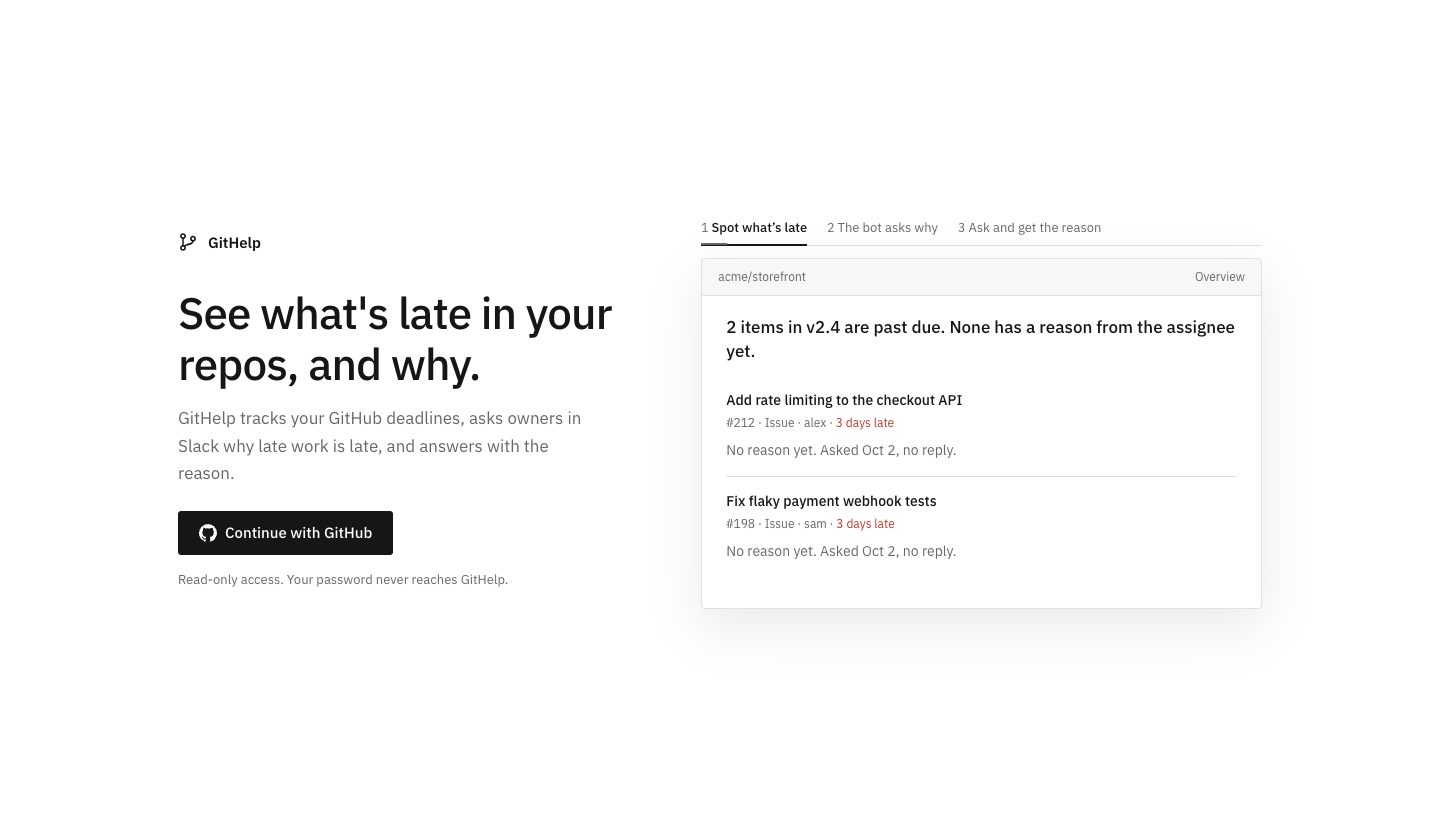
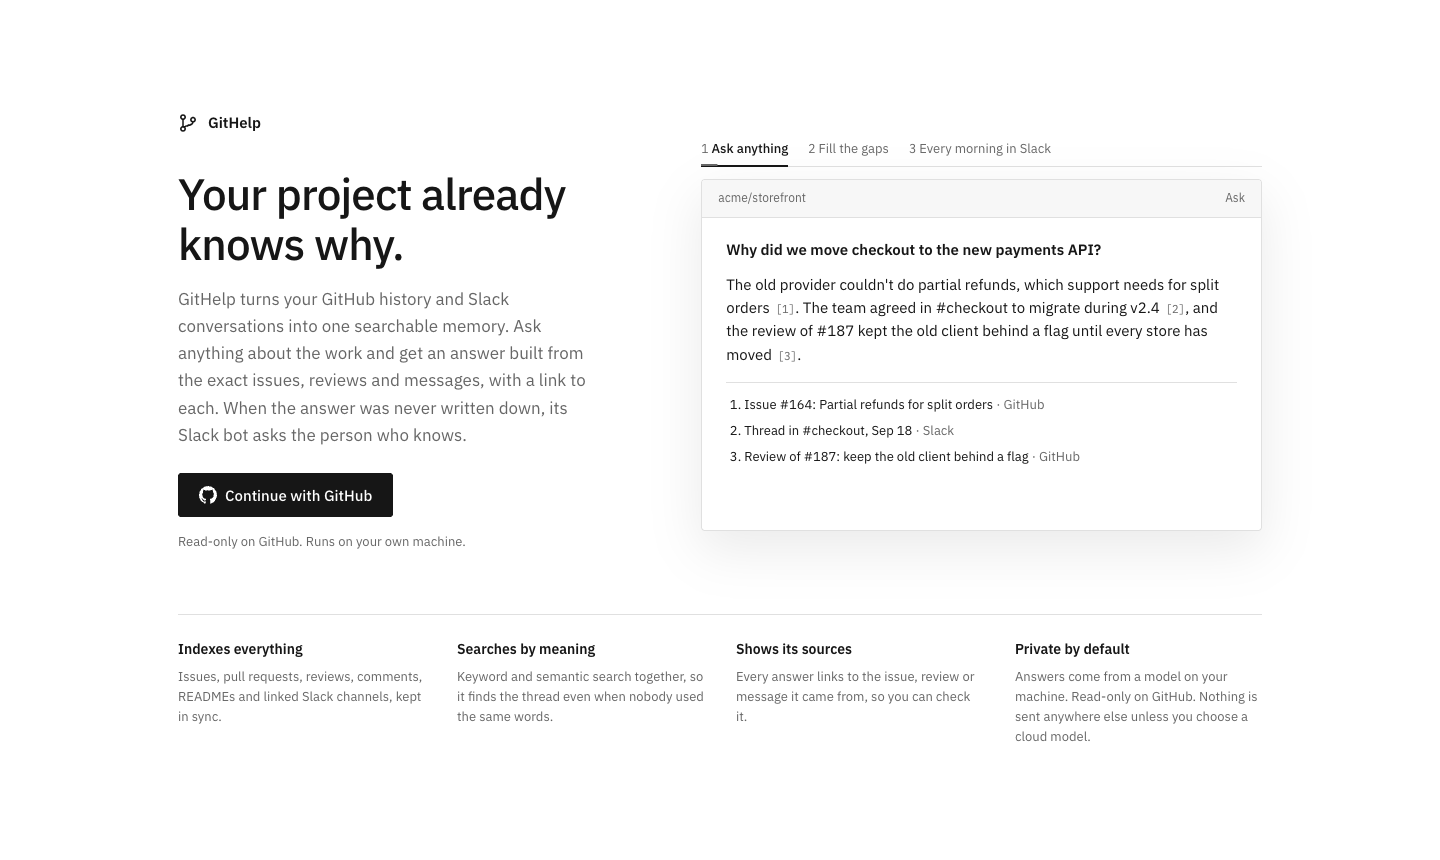
Sell the real idea on the landing page, and index pull request reviews
The sign-in page now leads with what GitHelp is: a searchable memory of a
project's GitHub history and Slack conversations that answers any
question with its sources, and asks people when the answer was never
written down. The demo shows a "why did we…" answer combining a Slack
thread, an issue and a review, then the bot filling a gap, then the
digest, and a row under it explains how it works (indexing, keyword and
semantic search, sources, local model). The README intro and Help say
the same.

To make that true, pull requests now index their review summaries and
inline review comments (file and line) alongside conversation comments,
refetching only when a pull request changed, with a one-time re-read per
repository. Counting questions are answered from the overview's counts
alone, because the extra pull request material made the local model
quote the wrong number; the eval is back to 19/19.

diff --git a/src/main.jsx b/src/main.jsx
@@ -793,8 +793,12 @@ function Home() {
     <main className="landing">
       <section className="landing-copy">
         <Brand to="/" />
-        <h1>See what's late in your repos, and why.</h1>
-        <p className="lead">GitHelp tracks your GitHub deadlines, asks owners in Slack why late work is late, and answers with the reason.</p>
+        <h1>Your project already knows why.</h1>
+        <p className="lead">
+          GitHelp turns your GitHub history and Slack conversations into one searchable memory. Ask anything about the
+          work and get an answer built from the exact issues, reviews and messages, with a link to each. When the answer
+          was never written down, its Slack bot asks the person who knows.
+        </p>
         {error && (
           <div className="alert" role="alert">
             <span className="alert-label">Sign-in failed</span>
@@ -802,9 +806,15 @@ function Home() {
           </div>
         )}
         <a className="btn btn-primary btn-lg" href="/auth/login"><GitHubMark />Continue with GitHub</a>
-        <p className="hint">Read-only access. Your password never reaches GitHelp.</p>
+        <p className="hint">Read-only on GitHub. Runs on your own machine.</p>
       </section>
       <LandingDemo />
+      <dl className="landing-facts" aria-label="How it works">
+        <div><dt>Indexes everything</dt><dd>Issues, pull requests, reviews, comments, READMEs and linked Slack channels, kept in sync.</dd></div>
+        <div><dt>Searches by meaning</dt><dd>Keyword and semantic search together, so it finds the thread even when nobody used the same words.</dd></div>
+        <div><dt>Shows its sources</dt><dd>Every answer links to the issue, review or message it came from, so you can check it.</dd></div>
+        <div><dt>Private by default</dt><dd>Answers come from a model on your machine. Read-only on GitHub. Nothing is sent anywhere else unless you choose a cloud model.</dd></div>
+      </dl>
     </main>
   );
 }
@@ -812,18 +822,18 @@ function Home() {
 // The core loop on the sign-in page, built from the app's own styles: a late issue, the bot's Slack DM and its
 // reply, then Ask answering with the reason. Advances every few seconds unless the visitor prefers reduced motion
 // or picks a step. The repository, people and issues are made up for illustration.
-const DEMO_STEPS = ['Spot what’s late', 'The bot asks why', 'Ask and get the reason'];
+const DEMO_STEPS = ['Ask anything', 'Fill the gaps', 'Every morning in Slack'];
 function LandingDemo() {
   const [step, setStep] = useState(0);
   const [auto, setAuto] = useState(() => !matchMedia('(prefers-reduced-motion: reduce)').matches);
   useEffect(() => {
     if (!auto) return undefined;
-    const t = setTimeout(() => setStep((s) => (s + 1) % DEMO_STEPS.length), 4500);
+    const t = setTimeout(() => setStep((s) => (s + 1) % DEMO_STEPS.length), 6000);
     return () => clearTimeout(t);
   }, [auto, step]);
   const pick = (i) => { setAuto(false); setStep(i); };
   return (
-    <section className="demo" aria-label="How GitHelp works, with an example repository">
+    <section className="demo" aria-label="What GitHelp does, with an example repository">
       <div className={`demo-steps${auto ? ' auto' : ''}`} role="tablist" aria-label="Demo steps">
         {DEMO_STEPS.map((label, i) => (
           <button key={label} type="button" role="tab" aria-selected={step === i} aria-controls="demo-panel" onClick={() => pick(i)}>
@@ -832,24 +842,20 @@ function LandingDemo() {
         ))}
       </div>
       <div className="demo-frame" id="demo-panel" role="tabpanel" aria-live="polite">
-        <div className="demo-bar"><span>acme/storefront</span><span>{['Overview', 'Slack · direct message', 'Ask'][step]}</span></div>
+        <div className="demo-bar"><span>acme/storefront</span><span>{['Ask', 'Slack · direct message', 'Slack · #checkout'][step]}</span></div>
         {step === 0 && (
           <div className="demo-body" key="s0">
-            <p className="demo-lead">2 items in v2.4 are past due. None has a reason from the assignee yet.</p>
-            <div className="ledger-row">
-              <div className="ledger-item">
-                <span className="ledger-title">Add rate limiting to the checkout API</span>
-                <p className="ledger-meta"><span className="ref">#212</span> · Issue · alex · <span className="late-text">3 days late</span></p>
-              </div>
-              <div className="ledger-why"><p className="muted">No reason yet. Asked Oct 2, no reply.</p></div>
-            </div>
-            <div className="ledger-row">
-              <div className="ledger-item">
-                <span className="ledger-title">Fix flaky payment webhook tests</span>
-                <p className="ledger-meta"><span className="ref">#198</span> · Issue · sam · <span className="late-text">3 days late</span></p>
-              </div>
-              <div className="ledger-why"><p className="muted">No reason yet. Asked Oct 2, no reply.</p></div>
-            </div>
+            <p className="demo-q">Why did we move checkout to the new payments API?</p>
+            <p>
+              The old provider couldn't do partial refunds, which support needs for split orders <span className="cite">[1]</span>.
+              The team agreed in #checkout to migrate during v2.4 <span className="cite">[2]</span>, and the review of #187 kept the
+              old client behind a flag until every store has moved <span className="cite">[3]</span>.
+            </p>
+            <ol className="demo-sources">
+              <li>Issue #164: Partial refunds for split orders <span className="muted">· GitHub</span></li>
+              <li>Thread in #checkout, Sep 18 <span className="muted">· Slack</span></li>
+              <li>Review of #187: keep the old client behind a flag <span className="muted">· GitHub</span></li>
+            </ol>
           </div>
         )}
         {step === 1 && (
@@ -860,13 +866,14 @@ function LandingDemo() {
           </div>
         )}
         {step === 2 && (
-          <div className="demo-body" key="s2">
-            <p className="demo-q">Why is #212 late?</p>
-            <p>#212 "Add rate limiting to the checkout API" is waiting on the security review, and alex expects to finish it by Friday, Oct 9 <span className="cite">[1]</span><span className="cite">[2]</span>.</p>
-            <ol className="demo-sources">
-              <li>Issue #212, status and reason <span className="muted">· GitHub</span></li>
-              <li>alex's reply to the overdue alert <span className="muted">· Slack DM</span></li>
-            </ol>
+          <div className="demo-body demo-dm" key="s2">
+            <div className="dm-msg">
+              <b>GitHelp</b>
+              <p><strong>storefront</strong> · 2 items past due in v2.4</p>
+              <p>• #212 Add rate limiting to the checkout API · 3 days late · alex: “Waiting on the security review” · expects Oct 9</p>
+              <p>• #198 Fix flaky payment webhook tests · 3 days late · sam · asked Oct 2, no reply</p>
+              <p>Next up: v2.5 due Oct 20 (in 13 days) · 4 items</p>
+            </div>
           </div>
         )}
       </div>
@@ -879,7 +886,7 @@ function LandingDemo() {
 // behaviour changes, change its answer here too.
 const HELP = [
   ['Getting started', [
-    ['What does GitHelp do?', 'It shows what is late in your GitHub repositories and why. When an issue passes its milestone’s due date, GitHelp’s Slack bot asks the person it is assigned to what is holding it up and when they expect to finish. Their answers appear next to the issue, in a Slack digest if you turn one on, and in Ask, which answers questions about a repository with links to its sources.'],
+    ['What does GitHelp do?', 'It turns a repository’s GitHub history (issues, pull requests, reviews, comments, the README) and its linked Slack channels into one searchable memory. Ask answers questions about the work from that memory and links every source. When an issue passes its milestone’s due date, GitHelp’s Slack bot asks the person it is assigned to what is holding it up and when they expect to finish, and their answer becomes part of the memory. It also shows what is late on each repository’s Overview and the Attention page, and can post a digest to Slack.'],
     ['Can GitHelp change anything in my repositories?', 'No. It only reads from GitHub. Its server forwards read requests only, to a fixed list of endpoints, so it cannot comment, merge, close or edit anything. GitHub has no read-only permission for private repositories, which is why the sign-in asks for repository access.'],
     ['Which repositories can I see?', 'Every repository your GitHub account can read: your own, ones you collaborate on, and ones your organizations share. If an organization’s repositories are missing, that organization restricts third-party apps: open github.com/settings/applications, choose your GitHelp app and grant or request access for the organization.'],
     ['What do I need to set up first?', 'For deadlines: give milestones a due date on GitHub and add issues to them. For reasons: link a Slack channel to the repository, match people in Settings → Slack bot, and turn on Settings → Overdue alerts for the repository. Everything else works as soon as you sign in.'],
@@ -907,7 +914,7 @@ const HELP = [
     ['The digest says the bot isn’t in the channel', 'The bot can only post in channels it has been added to. Type /invite @GitHelp in the channel, then try again.'],
   ]],
   ['Ask', [
-    ['What can Ask answer?', 'Questions about the work: why something is late, when it will be done, what was decided and why, who is working on what, what is blocking a release, how many issues are open. Inside a repository it uses that repository’s issues, pull requests, comments, README, linked Slack channels and replies to the bot. On the other pages it uses everything indexed so far. Every answer links its sources.'],
+    ['What can Ask answer?', 'Questions about the work: why something is late, when it will be done, what was decided and why, who is working on what, what is blocking a release, how many issues are open. Inside a repository it uses that repository’s issues, pull requests, reviews, comments, README, linked Slack channels and replies to the bot. On the other pages it uses everything indexed so far. Every answer links its sources.'],
     ['How do I open Ask?', 'Click Ask a question in the sidebar or press ⌘J (Ctrl+J on Windows and Linux). Press / anywhere outside a text field to jump to it. Buttons like Ask why it’s late ask for you.'],
     ['Which model answers, and where does my data go?', 'By default a model running on this machine through Ollama, so nothing leaves it. In Settings you can choose Anthropic or any OpenAI-compatible service instead; then each question and the GitHub and Slack text that matches it are sent to that service.'],
     ['An answer is wrong or vague', 'Check the cited sources: answers come only from them. Small local models make mistakes; a larger model (Settings → Chat model) gives better answers if your machine has the memory.'],

diff --git a/rag.js b/rag.js
@@ -116,6 +116,8 @@ async function gh(token, path, accept = 'application/vnd.github+json') {
 const MAX_ITEMS = 200; // most recently updated issues + PRs per repo
 
 // Issues and PRs (one chunk each, plus their comments), and the README. Also returns one row per item.
+const DISCUSSION_VERSION = '2'; // 2: pull request reviews and inline review comments
+
 export async function githubChunks(repo, token) {
   const d = db();
   const items = [];
@@ -126,6 +128,10 @@ export async function githubChunks(repo, token) {
   }
 
   const storedComments = d.prepare('SELECT * FROM chunks WHERE id LIKE ? ORDER BY id');
+  const prevItem = d.prepare('SELECT updated_at FROM items WHERE repo = ? AND number = ?');
+  // Bump DISCUSSION_VERSION when what goes into discussion chunks changes, so each repo re-reads it once.
+  const versionKey = `discussion-index:${repo}`;
+  const current = d.prepare('SELECT value FROM settings WHERE key = ?').get(versionKey)?.value === DISCUSSION_VERSION;
   const docs = [];
   const rows = [];
   for (const it of items.slice(0, MAX_ITEMS)) {
@@ -155,18 +161,34 @@ export async function githubChunks(repo, token) {
     split(`${isPR ? 'Pull request' : 'Issue'} #${it.number}: ${it.title}\n${facts}\n\n${it.body ?? ''}`.trim())
       .forEach((text, i) => docs.push(doc(`${base}${i ? `:${i}` : ''}`, text)));
 
-    if (!it.comments) continue;
-    // Comments only change when the item's updated_at does: reuse the stored chunks instead of refetching.
+    // Discussion: conversation comments, plus a pull request's reviews and inline review comments, which is where
+    // much of the "why" lives. It only changes when the item's updated_at does, so stored chunks are reused.
     const kept = storedComments.all(`${base}:comments:%`);
-    if (kept.length && kept.every((c) => c.ts === it.updated_at)) {
+    const unchanged = current && prevItem.get(repo, it.number)?.updated_at === it.updated_at;
+    if (unchanged && kept.every((c) => c.ts === it.updated_at)) {
       docs.push(...kept.map((c) => ({ ...c, title: `${title} (comments)` })));
       continue;
     }
-    const comments = await gh(token, `repos/${repo}/issues/${it.number}/comments?per_page=100`) ?? [];
-    const thread = comments.map((c) => `${c.user?.login ?? 'unknown'} (${localDayOf(c.created_at)}): ${c.body}`).join('\n\n');
-    split(`Comments on ${kind} #${it.number} (${it.title}):\n${thread}`)
+    const parts = [];
+    if (it.comments) {
+      const comments = await gh(token, `repos/${repo}/issues/${it.number}/comments?per_page=100`) ?? [];
+      parts.push(...comments.map((c) => `${c.user?.login ?? 'unknown'} (${localDayOf(c.created_at)}): ${c.body}`));
+    }
+    if (isPR) {
+      const reviews = await gh(token, `repos/${repo}/pulls/${it.number}/reviews?per_page=100`) ?? [];
+      parts.push(...reviews.filter((r) => r.body?.trim()).map((r) =>
+        `${r.user?.login ?? 'unknown'} reviewed (${String(r.state).toLowerCase().replace('_', ' ')}) on ${localDayOf(r.submitted_at)}: ${r.body}`));
+      const inline = await gh(token, `repos/${repo}/pulls/${it.number}/comments?per_page=100`) ?? [];
+      parts.push(...inline.map((c) => {
+        const line = c.line ?? c.original_line;
+        return `${c.user?.login ?? 'unknown'} on ${c.path ?? 'the code'}${line ? ` line ${line}` : ''} (${localDayOf(c.created_at)}): ${c.body}`;
+      }));
+    }
+    if (!parts.length) continue;
+    split(`Discussion on ${kind} #${it.number} (${it.title}):\n${parts.join('\n\n')}`)
       .forEach((text, i) => docs.push(doc(`${base}:comments:${i}`, text, ' (comments)')));
   }
+  d.prepare('INSERT INTO settings VALUES (?, ?) ON CONFLICT (key) DO UPDATE SET value = excluded.value').run(versionKey, DISCUSSION_VERSION);
 
   const readme = await gh(token, `repos/${repo}/readme`, 'application/vnd.github.raw');
   if (readme) {
@@ -628,7 +650,10 @@ export async function* answer({ repo, messages, signal, mode = 'project' }) {
   // another issue's reason from (the overview's reason column, other issues' replies). Counting questions name no
   // issue, so they still get the overview.
   const named = new Set(facts.map((f) => f.id.split('#')[1]));
-  const retrieved = await retrieve(query, repo);
+  // Counting questions get only the overviews: their counts block answers them exactly, and extra chunks about the
+  // same words (a pull request's discussion for "how many pull requests") led gemma3:4b to quote the wrong number.
+  const counting = !facts.length && /\b(how many|number of|count of)\b/i.test(question);
+  const retrieved = counting ? [] : await retrieve(query, repo);
   const found = facts.length
     ? [...facts, ...retrieved.filter((c) => !c.id.startsWith('followup:') || named.has(c.id.split('#')[1].split(':')[0]))]
     : [...overviews, ...retrieved];

diff --git a/rag.test.js b/rag.test.js
@@ -65,6 +65,10 @@ globalThis.fetch = async (url, init = {}) => {
           created_at: '2026-09-01T00:00:00Z', updated_at: '2026-09-02T00:00:00Z', html_url: 'https://github.com/o/brewlog/pull/16' },
       ]));
     }
+    if (u.pathname.endsWith('/reviews')) {
+      return new Response(JSON.stringify([{ user: { login: 'priya' }, state: 'CHANGES_REQUESTED', submitted_at: '2026-09-02T00:00:00Z',
+        body: 'Keep JSON until node:sqlite is stable on our Node version.' }, { user: { login: 'zed' }, state: 'APPROVED', body: '' }]));
+    }
     if (u.pathname.endsWith('/comments')) {
       return new Response(JSON.stringify([{ user: { login: 'sanjay' }, created_at: '2026-09-02T00:00:00Z', body: 'Decision: staying on JSON.' }]));
     }
@@ -99,7 +103,12 @@ assert(calls.embedTexts.every((t) => t.startsWith('search_document: ')), 'nomic 
 
 await rag.indexGithub('o/brewlog', 'gh-token');
 const ghIds = d.prepare("SELECT id FROM chunks WHERE source = 'github' ORDER BY id").all().map((r) => r.id);
-assert.deepEqual(ghIds, ['gh:o/brewlog:#14', 'gh:o/brewlog:#16', 'gh:o/brewlog:#3', 'gh:o/brewlog:#9', 'gh:o/brewlog:#9:comments:0', 'gh:o/brewlog:readme:0']);
+assert.deepEqual(ghIds, ['gh:o/brewlog:#14', 'gh:o/brewlog:#16', 'gh:o/brewlog:#16:comments:0', 'gh:o/brewlog:#3', 'gh:o/brewlog:#9', 'gh:o/brewlog:#9:comments:0', 'gh:o/brewlog:readme:0']);
+// A pull request's discussion includes its review summaries (empty ones skipped) and inline review comments.
+const prDiscussion = db().prepare("SELECT text FROM chunks WHERE id = 'gh:o/brewlog:#16:comments:0'").get().text;
+assert.match(prDiscussion, /priya reviewed \(changes requested\) on 2026-09-0\d: Keep JSON until node:sqlite is stable/);
+assert.doesNotMatch(prDiscussion, /zed reviewed/);
+assert.match(prDiscussion, /sanjay on the code \(2026-09-0\d\): Decision: staying on JSON\./);
 assert.match(d.prepare("SELECT text FROM chunks WHERE id = 'gh:o/brewlog:#14'").get().text, /Milestone: v0\.3\.0, due 2020-01-01\./);
 assert.match(d.prepare("SELECT text FROM chunks WHERE id = 'gh:o/brewlog:#16'").get().text, /State: closed\./);
 

diff --git a/src/style.css b/src/style.css
@@ -619,7 +619,7 @@ kbd { padding: 0 5px; border: 1px solid var(--border); border-radius: 4px; backg
 }
 /* while the demo plays by itself, the active step shows how long until the next one */
 .demo-steps.auto button[aria-selected="true"]::after { content: ''; position: absolute; left: 0; bottom: -1px; height: 2px; width: 100%;
-  background: var(--muted); transform-origin: left; animation: demo-progress 4.5s linear; }
+  background: var(--muted); transform-origin: left; animation: demo-progress 6s linear; }
 @keyframes demo-progress { from { transform: scaleX(0); } }
 @media (prefers-reduced-motion: reduce) { .demo-steps.auto button[aria-selected="true"]::after { display: none; } }
 /* Chrome draws a black arrow on inputs with suggestions; suggestions still show while typing */
@@ -656,3 +656,13 @@ kbd { padding: 0 5px; border: 1px solid var(--border); border-radius: 4px; backg
 .help summary::after { content: '+'; color: var(--muted); font: 16px var(--mono); }
 .help details[open] summary::after { content: '\2212'; }
 .help details p { margin: 0 0 14px; max-width: 68ch; color: var(--fg); line-height: 1.6; }
+
+/* ---------- landing: how it works ---------- */
+.landing-facts { grid-column: 1 / -1; display: grid; grid-template-columns: repeat(4, minmax(0, 1fr)); gap: 24px 32px;
+  margin: 8px 0 0; padding-top: 24px; border-top: 1px solid var(--border); }
+.landing-facts dt { font-weight: 600; font-size: 14px; }
+.landing-facts dd { margin: 6px 0 0; font-size: 13px; line-height: 1.55; color: var(--muted); }
+@media (max-width: 900px) { .landing-facts { grid-template-columns: repeat(2, minmax(0, 1fr)); } }
+@media (max-width: 520px) { .landing-facts { grid-template-columns: minmax(0, 1fr); } }
+.demo-dm .dm-msg p + p { margin-top: 4px; }
+.landing { align-content: center; }

diff --git a/CLAUDE.md b/CLAUDE.md
@@ -77,6 +77,7 @@ A read-only GitHub dashboard: Express backend + React SPA, both served by one Vi
 
 - **Overview tab** = `Attention` (from `rag.attention()` via `/api/attention`, local index only; first visit indexes the repo): a lead sentence (`leadSentence()`: how many items are past due, and how many have a reason / are waiting on a reply / have no owner), `MilestoneLine` (milestones and today on a to-scale dated line), the "Past due, and why" ledger (each row states days late and either the latest reason or exactly why there is none, with an ask button that dispatches `git-help:ask`, which opens Ask and sends the question), "Next up" grouped by milestone, and PRs waiting for review. The repo list shows per-repo overdue badges (`/api/attention/summary`).
 - **Named issues**: when a question mentions `#N`, `issueFacts()` adds an exact fact sheet per issue as the first sources and the overview plus other issues' `followup:` chunks are left out. gemma3:4b otherwise attributed #6's reason to #8 even when told not to; removing the material worked where instructions didn't.
+- **Counting questions** ("how many…", "number of…") get only the overviews as sources, no retrieved chunks: with PR discussions indexed, "how many open pull requests" retrieved PR material and gemma3:4b quoted the open-issue count instead.
 - **Dates**: deadlines (`due_on`) are calendar dates; event times (`sent_at`, `created_at`) are timestamps shown as the *local* date (`localDayOf`). Mixing them made "asked on Oct 2" appear before "today is Oct 1".
 - **Tabs**: six top-level tabs; `code` groups commits/branches/releases/contributors (`CODE_TABS`), whose old URLs still work. Ask opens and closes with the sidebar button or ⌘J (persisted in localStorage `ask`); `/` opens and focuses it (`git-help:focus`). ⌘K opens search.
 

diff --git a/README.md b/README.md
@@ -1,14 +1,18 @@
 # GitHelp
 
-GitHelp shows what's late in your GitHub repositories, and why.
+**Your project already knows why.** GitHelp turns a repository's GitHub history and its Slack conversations into one
+searchable memory. Ask anything about the work, such as why a decision was made, what is blocking a release or why an
+issue is late, and get an answer built from the exact issues, reviews and messages, with a link to each.
 
-When an issue passes its milestone's due date, GitHelp's Slack bot messages the person it's assigned to and asks what's
-holding it up. Their reply is kept on the issue. Anyone can then ask GitHelp why an issue is late and get the answer,
-with links to the GitHub issue and the Slack message it came from.
+When the answer was never written down, GitHelp asks. Its Slack bot messages the owner of an issue that has passed its
+milestone's due date, asks what's holding it up and when they expect to finish, and adds the reply to the memory. A
+daily or weekly digest posts what's late, and why, to the team's channel.
 
 ![GitHelp's sign-in page, with an example of a late issue, the bot's Slack message and the answer to "why is it late?"](docs/githelp.png)
 
-GitHelp is read-only on GitHub and runs on your own machine. By default the questions are answered by a local model
+Under the hood it is retrieval-augmented generation: issues, pull requests, reviews, comments, READMEs and linked Slack
+channels are indexed with both keyword and semantic search, the best matches are given to a language model, and the
+answer cites them. GitHelp is read-only on GitHub and runs on your own machine; by default the model runs locally
 through Ollama, so nothing leaves your computer.
 
 ## Contents
